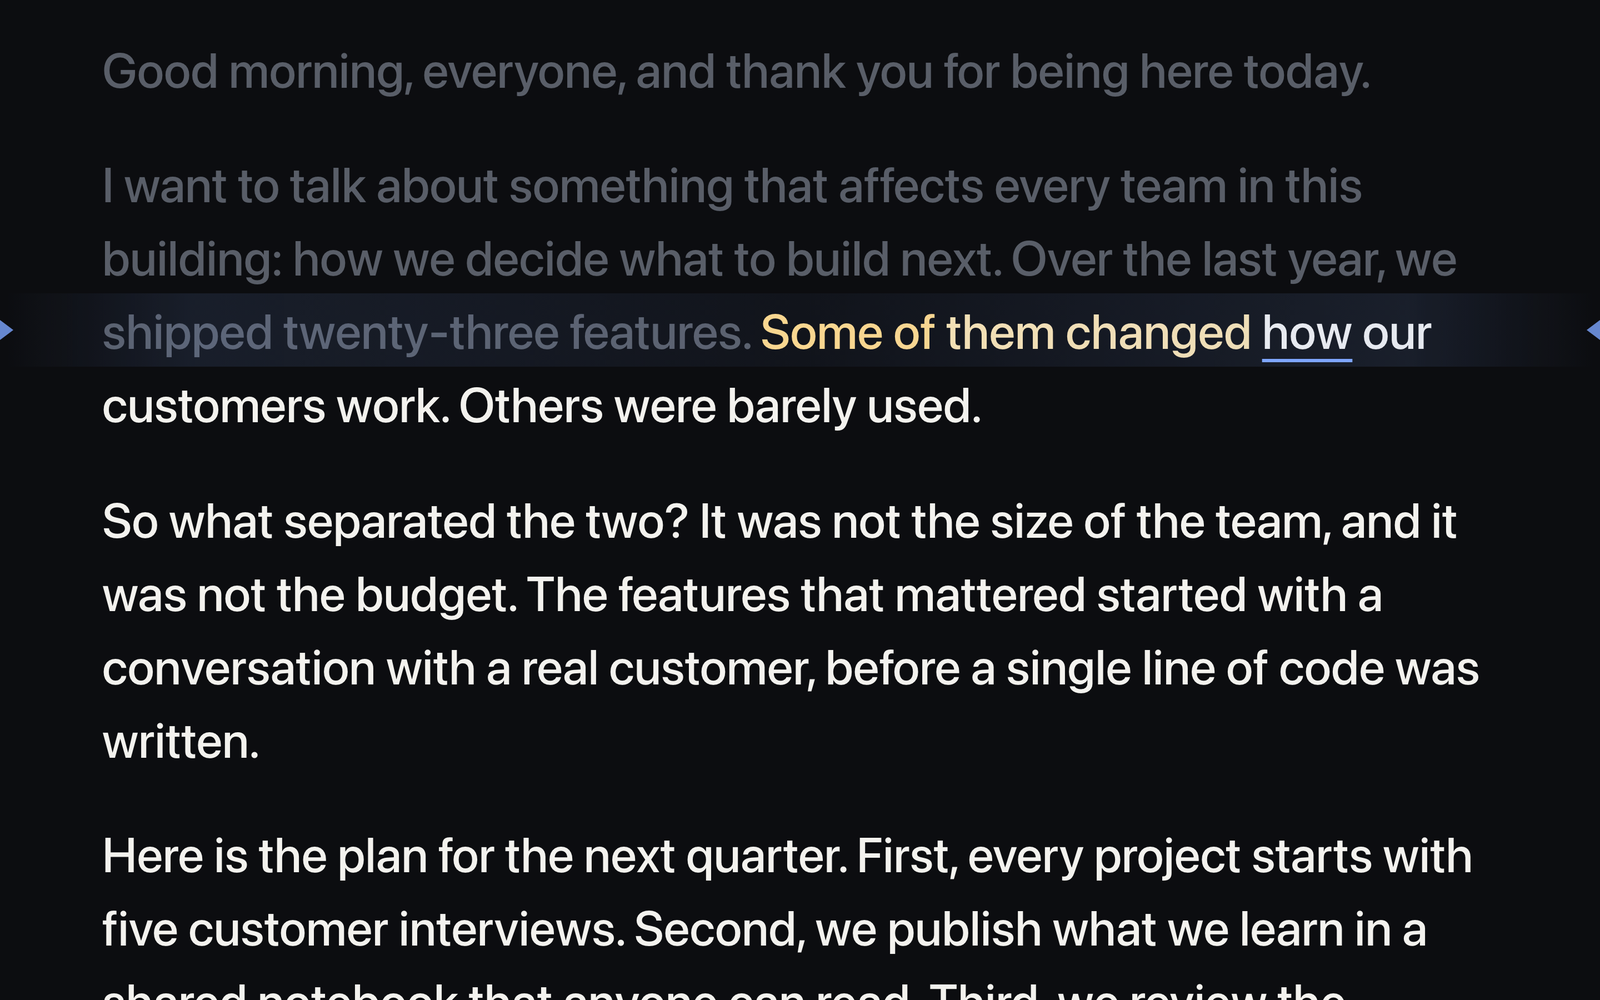
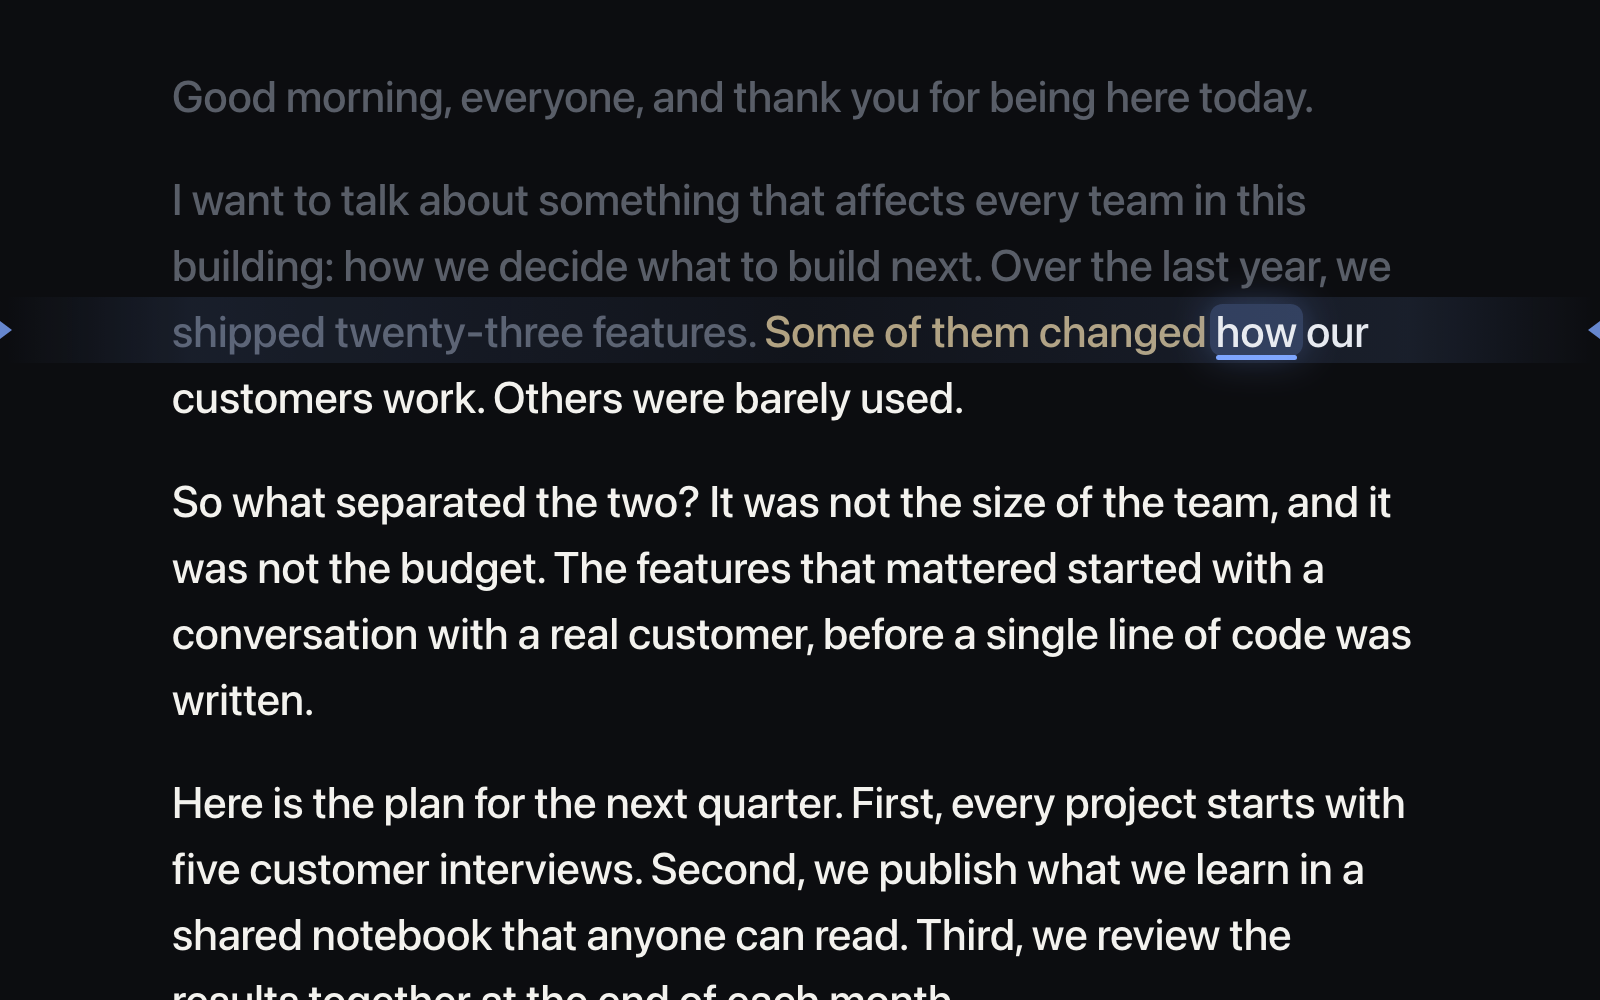
presenter: make the next word stand out, confirm leaving mid-talk, mark jump targets
- Heard (interim) words use a softer warm colour without a glow, and the
  next-word marker is firmer, so the eye lands on what to say next.
- Back asks "Stop and leave?" while the mic or practice run is on, so a
  stray tap does not end the session. Keyboard shortcuts pause meanwhile.
- The words a "Jump to …" chip quotes get a dashed underline in the
  script, so the speaker sees where it goes.
- Refresh the README screenshot and the About legend to match.

diff --git a/apps/web/src/presenter/PresenterView.tsx b/apps/web/src/presenter/PresenterView.tsx
@@ -44,11 +44,12 @@ import { useLiveSession } from '../live/useLiveSession';
 import { useAutoScroll } from '../scroll/useAutoScroll';
 import { playSimulation, type SimPlayer } from '../sim/simPlayer';
 import { scenarioOptions, SIM_SCENARIOS, type SimScenario } from '../sim/scenarios';
-import { currentParagraphId, focusTokenId, paragraphStepTarget } from './cursor';
+import { currentParagraphId, focusTokenId, jumpSnippetStart, paragraphStepTarget } from './cursor';
 import { DiagnosticsPanel } from './DiagnosticsPanel';
 import { DisplayPanel } from './DisplayPanel';
 import { ShortcutsDialog } from './ShortcutsDialog';
 import { useIdle } from './useIdle';
+import { useEscapeKey } from '../ui/useEscapeKey';
 import { useWakeLock } from './useWakeLock';
 import { useServerStatus } from '../setup/useServerStatus';
 import { loadJson, saveJson } from '../storage';
@@ -139,6 +140,31 @@ function MicHint({ voiceReady, onDismiss }: { voiceReady: boolean; onDismiss: ()
   );
 }
 
+/** Asks before leaving mid-talk, so a stray tap on Back does not end the session. */
+function LeaveDialog({ onLeave, onStay }: { onLeave: () => void; onStay: () => void }) {
+  const stayRef = useRef<HTMLButtonElement>(null);
+  useEffect(() => stayRef.current?.focus(), []);
+  useEscapeKey(onStay);
+  return (
+    <div className="overlay" onPointerDown={(e) => e.target === e.currentTarget && onStay()}>
+      <div className="dialog" role="alertdialog" aria-modal="true" aria-labelledby="leave-title">
+        <div className="dialog-head">
+          <h2 id="leave-title">Stop and leave?</h2>
+        </div>
+        <p className="muted small">This stops following your voice. Your place is kept.</p>
+        <div className="dialog-actions">
+          <button type="button" className="btn ghost" onClick={onLeave}>
+            Stop and leave
+          </button>
+          <button ref={stayRef} type="button" className="btn primary" onClick={onStay}>
+            Keep presenting
+          </button>
+        </div>
+      </div>
+    </div>
+  );
+}
+
 /** Offers the distant place the speaker seems to have skipped to; one tap moves there. */
 function JumpChip({
   script,
@@ -150,8 +176,7 @@ function JumpChip({
   onJump: () => void;
 }) {
   // The last few words heard there, as written, so the speaker recognizes the spot.
-  const paragraph = script.paragraphs[script.tokens[tokenId]!.paragraphId]!;
-  const from = script.tokens[Math.max(paragraph.firstTokenId, tokenId - 4)]!;
+  const from = script.tokens[jumpSnippetStart(script, tokenId)]!;
   const snippet = script.source.slice(from.startOffset, script.tokens[tokenId]!.endOffset);
   return (
     <button type="button" className="toast jump" onClick={onJump} aria-live="polite">
@@ -187,6 +212,7 @@ export function PresenterView({
   const [showDiagnostics, setShowDiagnostics] = useState(false);
   const [showShortcuts, setShowShortcuts] = useState(false);
   const [settingsOpen, setSettingsOpen] = useState(false);
+  const [confirmLeave, setConfirmLeave] = useState(false);
   /** null = closed; otherwise whether the last code was rejected. */
   const [codePrompt, setCodePrompt] = useState<{ rejected: boolean } | null>(null);
   const simRef = useRef<SimPlayer | null>(null);
@@ -283,7 +309,7 @@ export function PresenterView({
   const keyHandlerRef = useRef<(e: KeyboardEvent) => void>(() => {});
   useEffect(() => {
     keyHandlerRef.current = (e: KeyboardEvent) => {
-      if (e.metaKey || e.ctrlKey || e.altKey || isEditableTarget(e.target)) return;
+      if (confirmLeave || e.metaKey || e.ctrlKey || e.altKey || isEditableTarget(e.target)) return;
       const actions: Record<string, () => void> = {
         ArrowDown: () => step(1),
         PageDown: () => step(1),
@@ -335,6 +361,7 @@ export function PresenterView({
       !settingsOpen &&
       !showShortcuts &&
       !codePrompt &&
+      !confirmLeave &&
       !live.error &&
       jumpTarget === null,
   );
@@ -361,7 +388,7 @@ export function PresenterView({
         <button
           type="button"
           className="icon-btn"
-          onClick={onExit}
+          onClick={() => (active ? setConfirmLeave(true) : onExit())}
           aria-label="Back to setup"
           title="Back to setup"
         >
@@ -396,6 +423,7 @@ export function PresenterView({
               confirmedTokenId={tracking.confirmedTokenId}
               tentativeTokenId={tracking.tentativeTokenId}
               nextTokenId={finished ? null : focus}
+              jump={jumpTarget === null ? null : [jumpSnippetStart(script, jumpTarget), jumpTarget]}
               onReposition={goTo}
             />
             <div className="end-mark" data-finished={finished || undefined}>
@@ -580,6 +608,8 @@ export function PresenterView({
       )}
 
       {showShortcuts && <ShortcutsDialog onClose={() => setShowShortcuts(false)} />}
+
+      {confirmLeave && <LeaveDialog onLeave={onExit} onStay={() => setConfirmLeave(false)} />}
 
       {codePrompt && (
         <AccessCodeDialog

diff --git a/apps/web/src/styles.css b/apps/web/src/styles.css
@@ -32,7 +32,7 @@
   --fg: #f3f2ee;
   --fg-muted: #979ca6;
   --fg-spoken: #595e68;
-  --fg-tentative: #ffd98a;
+  --fg-tentative: #b4a27b;
   --accent: #7ea6ff;
   --accent-fg: #0b1224;
   --accent-soft: rgba(126, 166, 255, 0.14);
@@ -55,7 +55,7 @@
   --fg: #17181b;
   --fg-muted: #636873;
   --fg-spoken: #a9adb4;
-  --fg-tentative: #8a5a00;
+  --fg-tentative: #987f51;
   --accent: #2f62d8;
   --accent-fg: #ffffff;
   --accent-soft: rgba(47, 98, 216, 0.1);
@@ -949,15 +949,14 @@ input[type='range']::-moz-range-thumb {
 }
 .demo-heard {
   color: var(--fg-tentative);
-  text-shadow: 0 0 0.4em color-mix(in srgb, var(--glow) 45%, transparent);
 }
 .demo-next {
   padding: 0 0.14em;
   border-radius: 0.28em;
-  background: color-mix(in srgb, var(--accent) 16%, transparent);
+  background: color-mix(in srgb, var(--accent) 26%, transparent);
   box-shadow:
-    inset 0 -0.08em 0 var(--accent),
-    0 0 0.9em color-mix(in srgb, var(--accent) 22%, transparent);
+    inset 0 -0.1em 0 var(--accent),
+    0 0 0.9em color-mix(in srgb, var(--accent) 30%, transparent);
 }
 .legend {
   display: grid;
@@ -987,7 +986,6 @@ input[type='range']::-moz-range-thumb {
 }
 .swatch[data-kind='heard'] {
   background: var(--fg-tentative);
-  box-shadow: 0 0 0.5em var(--glow);
 }
 .swatch[data-kind='next'] {
   background: color-mix(in srgb, var(--accent) 22%, transparent);
@@ -1834,7 +1832,7 @@ input[type='range']::-moz-range-thumb {
   overflow-wrap: break-word;
   cursor: pointer;
 }
-/* The script: words ease from bright (to read) to warm (heard) to dim (said). */
+/* The script: words ease from bright (to read) to warm and dimmer (heard) to dim (said). */
 .script {
   position: relative;
   isolation: isolate; /* keeps the marker (z-index -1) just behind the words */
@@ -1851,7 +1849,6 @@ input[type='range']::-moz-range-thumb {
 }
 .tok.tentative {
   color: var(--fg-tentative);
-  text-shadow: 0 0 0.4em color-mix(in srgb, var(--glow) 45%, transparent);
   animation: heard 0.7s var(--ease);
 }
 /* A word lights up as it is recognized, then settles. */
@@ -1871,8 +1868,8 @@ input[type='range']::-moz-range-thumb {
   padding: 0 0.14em;
   box-sizing: content-box;
   border-radius: 0.28em;
-  background: color-mix(in srgb, var(--accent) 16%, transparent);
-  box-shadow: 0 0 0.9em color-mix(in srgb, var(--accent) 22%, transparent);
+  background: color-mix(in srgb, var(--accent) 26%, transparent);
+  box-shadow: 0 0 0.9em color-mix(in srgb, var(--accent) 30%, transparent);
   pointer-events: none;
   transition:
     transform 0.45s cubic-bezier(0.22, 1, 0.36, 1),
@@ -1886,7 +1883,7 @@ input[type='range']::-moz-range-thumb {
   left: 0.14em;
   right: 0.14em;
   bottom: -0.08em;
-  height: 0.07em;
+  height: 0.1em;
   border-radius: 999px;
   background: var(--accent);
 }
@@ -1895,6 +1892,12 @@ input[type='range']::-moz-range-thumb {
 }
 .focus-marker[hidden] {
   display: none;
+}
+/* The words a "Jump to …" suggestion quotes, so the speaker sees where it goes. */
+.tok.jump-target {
+  text-decoration: underline dashed var(--accent);
+  text-decoration-thickness: 0.06em;
+  text-underline-offset: 0.2em;
 }
 /* Touch feedback when tapping a word to jump there. */
 .tok:active {

diff --git a/apps/web/src/presenter/ScriptDisplay.tsx b/apps/web/src/presenter/ScriptDisplay.tsx
@@ -10,6 +10,9 @@ type ParagraphViewProps = {
   tentativeUpTo: number;
   /** Next token to read if it is in this paragraph, else -1. */
   nextTokenId: number;
+  /** Token range of a suggested jump within this paragraph, or null. */
+  jumpFrom: number | null;
+  jumpTo: number | null;
 };
 
 /**
@@ -22,6 +25,8 @@ const ParagraphView = memo(function ParagraphView({
   spokenUpTo,
   tentativeUpTo,
   nextTokenId,
+  jumpFrom,
+  jumpTo,
 }: ParagraphViewProps) {
   const children: ReactNode[] = [];
   let prevEnd = paragraph.startOffset;
@@ -32,6 +37,9 @@ const ParagraphView = memo(function ParagraphView({
     if (id <= spokenUpTo) className += ' spoken';
     else if (id <= tentativeUpTo) className += ' tentative';
     if (id === nextTokenId) className += ' next';
+    if (jumpFrom !== null && jumpTo !== null && id >= jumpFrom && id <= jumpTo) {
+      className += ' jump-target';
+    }
     children.push(
       <span key={id} data-tid={id} className={className}>
         {token.displayText}
@@ -52,6 +60,8 @@ type ScriptDisplayProps = {
   confirmedTokenId: number | null;
   tentativeTokenId: number | null;
   nextTokenId: number | null;
+  /** First and last token of the words a "Jump to …" suggestion quotes, or null. */
+  jump: [from: number, to: number] | null;
   onReposition: (tokenId: number) => void;
 };
 
@@ -105,11 +115,23 @@ function clampTo(value: number, p: Paragraph): number {
   return Math.min(p.lastTokenId, Math.max(p.firstTokenId - 1, value));
 }
 
+/** The part of a jump suggestion inside one paragraph (nulls if none), keeping memo effective. */
+function jumpRange(
+  jump: [number, number] | null,
+  p: Paragraph,
+): { jumpFrom: number | null; jumpTo: number | null } {
+  if (!jump || jump[1] < p.firstTokenId || jump[0] > p.lastTokenId) {
+    return { jumpFrom: null, jumpTo: null };
+  }
+  return { jumpFrom: Math.max(jump[0], p.firstTokenId), jumpTo: Math.min(jump[1], p.lastTokenId) };
+}
+
 export function ScriptDisplay({
   script,
   confirmedTokenId,
   tentativeTokenId,
   nextTokenId,
+  jump,
   onReposition,
 }: ScriptDisplayProps) {
   const confirmed = confirmedTokenId ?? -1;
@@ -142,6 +164,7 @@ export function ScriptDisplay({
               ? nextTokenId
               : -1
           }
+          {...jumpRange(jump, p)}
         />
       ))}
     </div>

diff --git a/apps/web/src/App.test.tsx b/apps/web/src/App.test.tsx
@@ -264,6 +264,13 @@ describe('App (simulated tracking)', () => {
       chip = screen.queryByRole('button', { name: /jump to/i });
     }
     expect(chip).not.toBeNull();
+    // The quoted words are marked in the script, in the paragraph the chip goes to.
+    const marked = [...document.querySelectorAll<HTMLElement>('.tok.jump-target')];
+    expect(marked.length).toBeGreaterThan(0);
+    expect(marked.every((el) => el.closest('[data-pid]')?.getAttribute('data-pid') === '3')).toBe(
+      true,
+    );
+    expect(chip!.textContent).toContain(marked.at(-1)!.textContent);
     const confirmedBefore = document.querySelectorAll('.tok.spoken').length;
     fireEvent.click(chip!);
     // The tap is a manual reposition: everything up to the suggested spot is now spoken.
@@ -275,6 +282,28 @@ describe('App (simulated tracking)', () => {
     );
     expect(screen.queryByRole('button', { name: /jump to/i })).toBeNull();
     fireEvent.click(screen.getByRole('button', { name: 'Stop simulation' }));
+  });
+
+  it('asks before leaving while following, and keeps presenting on cancel', () => {
+    presentSample();
+    startSimulation();
+    fireEvent.click(screen.getByRole('button', { name: 'Back to setup' }));
+    expect(screen.getByRole('alertdialog', { name: 'Stop and leave?' })).toBeInTheDocument();
+    fireEvent.click(screen.getByRole('button', { name: 'Keep presenting' }));
+    expect(screen.queryByRole('alertdialog')).toBeNull();
+    expect(screen.getByRole('status')).toHaveTextContent(/following \(simulated\)/i);
+
+    fireEvent.click(screen.getByRole('button', { name: 'Back to setup' }));
+    fireEvent.click(screen.getByRole('button', { name: 'Stop and leave' }));
+    expect(screen.queryByTestId('scroller')).toBeNull();
+    expect(screen.getByRole('button', { name: /start presenting/i })).toBeInTheDocument();
+  });
+
+  it('leaves without asking when nothing is running', () => {
+    presentSample();
+    fireEvent.click(screen.getByRole('button', { name: 'Back to setup' }));
+    expect(screen.queryByRole('alertdialog')).toBeNull();
+    expect(screen.queryByTestId('scroller')).toBeNull();
   });
 
   it('pausing freezes the highlight while the simulated speaker continues', async () => {

diff --git a/apps/web/src/presenter/cursor.ts b/apps/web/src/presenter/cursor.ts
@@ -30,3 +30,9 @@ export function paragraphStepTarget(
   if (delta === -1 && focus > current.firstTokenId) return current.firstTokenId;
   return script.paragraphs[current.id + delta]?.firstTokenId ?? null;
 }
+
+/** First token of the few words quoted for a jump suggestion (never before its paragraph). */
+export function jumpSnippetStart(script: ParsedScript, tokenId: number): number {
+  const paragraph = script.paragraphs[script.tokens[tokenId]!.paragraphId]!;
+  return Math.max(paragraph.firstTokenId, tokenId - 4);
+}

diff --git a/apps/web/src/setup/About.tsx b/apps/web/src/setup/About.tsx
@@ -196,7 +196,7 @@ export function About() {
           </div>
           <div>
             <dt>
-              <span className="swatch" data-kind="heard" /> Warm glow
+              <span className="swatch" data-kind="heard" /> Warm
             </dt>
             <dd>What it is hearing right now.</dd>
           </div>

diff --git a/README.md b/README.md
@@ -11,7 +11,7 @@ stays at eye level, and the words you have already said fade out.
 
 <br />
 
-<img src="docs/images/presenter-desktop.png" alt="The presenter view following a speaker: spoken text is dimmed, the phrase being heard glows amber, and the next word is underlined on the reading line." width="860" />
+<img src="docs/images/presenter-desktop.png" alt="The presenter view following a speaker: spoken text is dimmed, the phrase being heard is a softer warm colour, and the next word is boxed and underlined on the reading line." width="860" />
 
 <sub>The presenter view in the middle of a talk (recorded with the built-in practice mode).</sub>
 
@@ -118,12 +118,12 @@ The script follows you. Tap any word to jump there yourself.
 
 ### Reading the screen
 
-| You see         | It means                               |
-| --------------- | -------------------------------------- |
-| Faded text      | You have said this                     |
-| Warm amber text | What the app is hearing right now      |
-| Underlined word | Your next word                         |
-| ◀ ▶ markers     | The reading line. Your line stays here |
+| You see           | It means                               |
+| ----------------- | -------------------------------------- |
+| Faded text        | You have said this                     |
+| Warm, dimmer text | What the app is hearing right now      |
+| Underlined word   | Your next word                         |
+| ◀ ▶ markers       | The reading line. Your line stays here |
 
 ### Made for talks that don't go to plan
 
